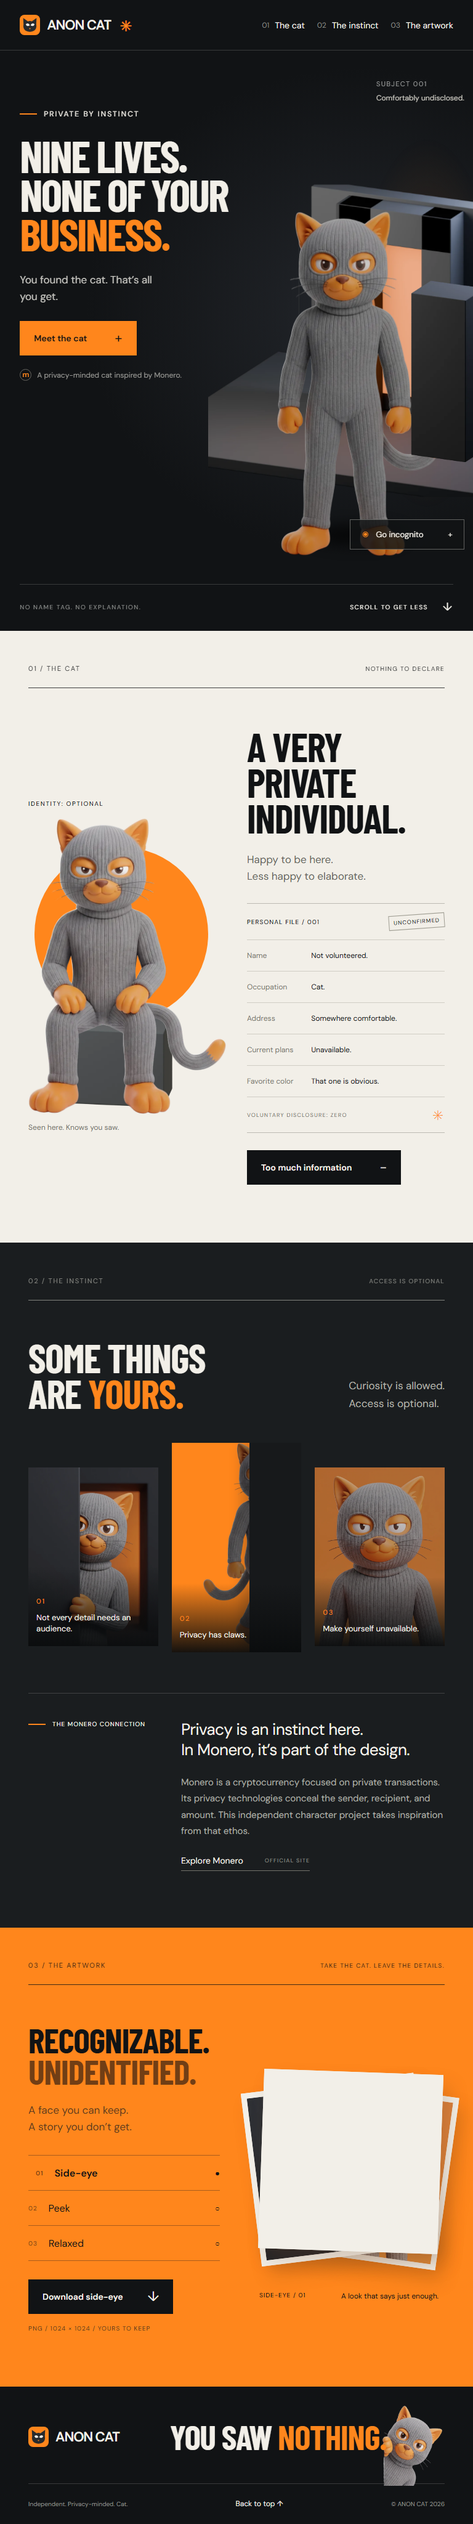
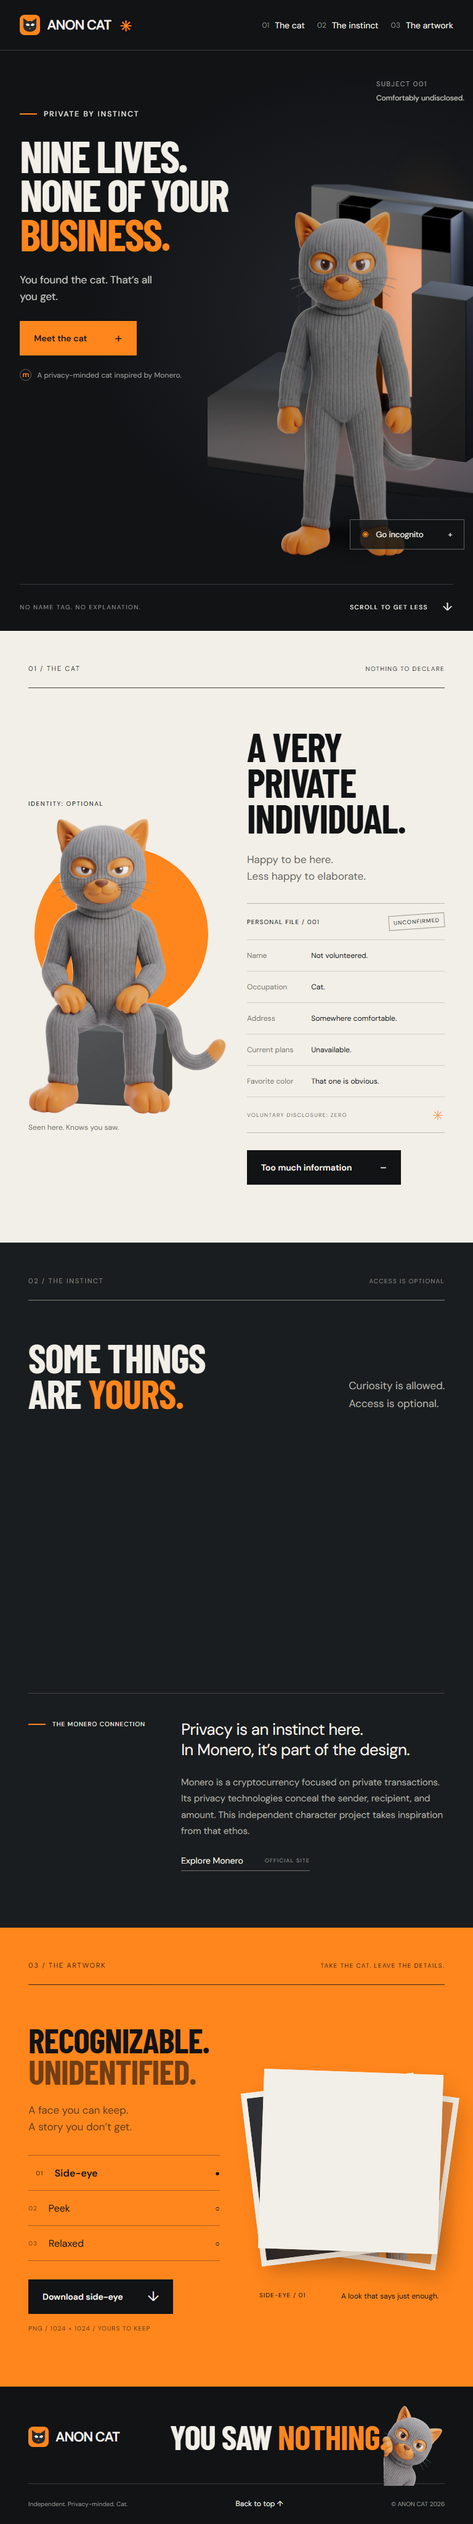
Update Site source

Changed region(s): [[0.6562, 0.5624, 0.9375, 0.6561], [0.3438, 0.5624, 0.5312, 0.6561], [0.125, 0.5624, 0.3125, 0.6561]]

diff --git a/src/components/interactions/PrivacyStory.tsx b/src/components/interactions/PrivacyStory.tsx
@@ -1,0 +1,77 @@
+'use client';
+import {useEffect,useRef,type ReactNode} from 'react';
+import gsap from 'gsap';
+
+export default function PrivacyStory({children}:{children:ReactNode}){
+  const root=useRef<HTMLDivElement>(null);
+  useEffect(()=>{
+    const el=root.current;
+    if(!el)return;
+    let disposed=false,started=false;
+    let initialArtwork=location.hash==='#artwork';
+    const cancelInitialAnchor=()=>{initialArtwork=false;};
+    window.addEventListener('wheel',cancelInitialAnchor,{passive:true});
+    window.addEventListener('touchstart',cancelInitialAnchor,{passive:true});
+    let context:gsap.Context|null=null;
+    let media:gsap.MatchMedia|null=null;
+    let refresh=()=>{};
+    const initialize=async()=>{
+      if(started)return;started=true;
+      el.querySelectorAll<HTMLImageElement>('img').forEach(img=>{img.loading='eager';});
+      // Load scroll choreography near this section, outside the hero's first requests.
+      const {ScrollTrigger}=await import('gsap/ScrollTrigger');
+      if(disposed)return;
+      const following=document.querySelector('#artwork');
+      const alignInitialAnchor=()=>{if(!disposed&&initialArtwork&&location.hash==='#artwork')following?.scrollIntoView({block:'start',behavior:'instant'});};
+      const preserveFollowing=el.getBoundingClientRect().bottom<0&&following;
+      const followingTop=preserveFollowing?following.getBoundingClientRect().top:0;
+      gsap.registerPlugin(ScrollTrigger);
+      context=gsap.context(()=>{
+        media=gsap.matchMedia();
+        media.add({desktop:'(min-width:1001px)',compact:'(max-width:1000px)'},mm=>{
+          if(mm.conditions?.desktop){
+            el.classList.add('is-cinematic');
+            const story=gsap.timeline({scrollTrigger:{id:'privacy-story',trigger:el,start:'top 6%',end:()=>`+=${Math.round(innerHeight*1.75)}`,pin:true,scrub:true,anticipatePin:1,invalidateOnRefresh:true,onUpdate:self=>{
+              el.dataset.storyProgress=self.progress.toFixed(3);
+              const chapter=self.progress<.35?'01':self.progress<.7?'02':'03';
+              el.dataset.storyChapter=chapter;
+              const label=el.querySelector('.story-current');if(label)label.textContent=chapter;
+            }}});
+            gsap.set('.silhouette-frame,.relaxed-frame',{clipPath:'inset(0 0 0 100%)'});
+            gsap.set('.privacy-shutters span',{x:0,xPercent:330});
+            story.from('.ethos-heading h2',{y:100,rotation:-4,scale:.86,duration:1,ease:'power3.out'},0)
+              .from('.panel-frame img',{scale:1.25,xPercent:8,duration:2,ease:'none'},0)
+              .to('.privacy-shutters span',{x:0,xPercent:-330,duration:.9,stagger:.07,ease:'power3.inOut'},1.2)
+              .to('.panel-frame',{clipPath:'inset(0 100% 0 0)',duration:.9,ease:'power3.inOut'},1.25)
+              .to('.silhouette-frame',{clipPath:'inset(0 0 0 0%)',duration:.9,ease:'power3.inOut'},1.25)
+              .from('.silhouette-frame img',{xPercent:-32,scale:1.15,duration:1.9,ease:'none'},1.3)
+              .to('.silhouette-occluder',{xPercent:50,duration:1.3,ease:'power2.inOut'},1.7)
+              .fromTo('.privacy-shutters span',{x:0,xPercent:330},{x:0,xPercent:-330,duration:.9,stagger:.07,ease:'power3.inOut',immediateRender:false},3.4)
+              .to('.silhouette-frame',{clipPath:'inset(0 100% 0 0)',duration:.9,ease:'power3.inOut'},3.45)
+              .to('.relaxed-frame',{clipPath:'inset(0 0 0 0%)',duration:.9,ease:'power3.inOut'},3.45)
+              .from('.relaxed-frame img',{scale:1.25,duration:2,ease:'none'},3.5)
+              .to('.ethos-heading h2 em',{scale:1.15,x:12,duration:5.5,ease:'none',transformOrigin:'0% 50%'},0)
+              .fromTo('.story-progress-track i',{scaleX:0},{scaleX:1,duration:5.5,ease:'none'},0);
+          }else{
+            gsap.utils.toArray<HTMLElement>('.ethos-frame').forEach((item,index)=>{
+              gsap.from(item,{clipPath:index%2?'inset(0 0 0 100%)':'inset(0 100% 0 0)',scale:.92,ease:'power3.out',scrollTrigger:{trigger:item,start:'top 93%',end:'top 38%',scrub:true}});
+              gsap.from(item.querySelector('img'),{scale:1.2,xPercent:index===1?-22:0,ease:'none',scrollTrigger:{trigger:item,start:'top bottom',end:'bottom top',scrub:true}});
+            });
+          }
+          return()=>{el.classList.remove('is-cinematic');delete el.dataset.storyProgress;delete el.dataset.storyChapter;};
+        });
+      },el);
+      refresh=()=>{if(!disposed)ScrollTrigger.refresh();};
+      refresh();
+      if(preserveFollowing){const change=following.getBoundingClientRect().top-followingTop;if(Math.abs(change)>1)window.scrollBy({top:change,behavior:'instant'});}
+      alignInitialAnchor();
+      document.fonts.ready.then(()=>{refresh();requestAnimationFrame(()=>{alignInitialAnchor();initialArtwork=false;});});
+      window.addEventListener('load',refresh);
+      el.dataset.storyReady='true';
+    };
+    const observer=new IntersectionObserver(entries=>{if(entries.some(entry=>entry.isIntersecting)){observer.disconnect();void initialize().catch(()=>{media?.revert();context?.revert();el.classList.remove('is-cinematic');el.dataset.storyReady='fallback';});}},{rootMargin:'800px'});
+    observer.observe(el);
+    return()=>{disposed=true;observer.disconnect();window.removeEventListener('load',refresh);window.removeEventListener('wheel',cancelInitialAnchor);window.removeEventListener('touchstart',cancelInitialAnchor);media?.revert();context?.revert();el.classList.remove('is-cinematic');};
+  },[]);
+  return <div className="ethos-cinema" ref={root}>{children}</div>;
+}

diff --git a/tests/privacy-story.spec.ts b/tests/privacy-story.spec.ts
@@ -1,0 +1,63 @@
+import {test,expect,type Page} from '@playwright/test';
+
+async function openStory(page:Page){
+  await page.locator('.ethos-cinema').scrollIntoViewIfNeeded();
+  await expect(page.locator('.ethos-cinema')).toHaveAttribute('data-story-ready','true');
+  await expect(page.locator('.ethos-cinema')).toHaveClass(/is-cinematic/);
+  await page.evaluate(()=>document.fonts.ready);
+  await expect.poll(()=>page.locator('.ethos-cinema img').evaluateAll(nodes=>nodes.every(img=>(img as HTMLImageElement).complete&&(img as HTMLImageElement).naturalWidth>0))).toBe(true);
+  return page.locator('.pin-spacer').evaluate(el=>({start:el.getBoundingClientRect().top+scrollY-innerHeight*.06,span:Math.round(innerHeight*1.75)}));
+}
+
+async function seek(page:Page,bounds:{start:number;span:number},progress:number){
+  await page.evaluate(({start,span,progress})=>window.scrollTo({top:start+span*progress,behavior:'instant'}),{...bounds,progress});
+  await expect.poll(async()=>Math.abs(Number(await page.locator('.ethos-cinema').getAttribute('data-story-progress'))-progress)).toBeLessThan(.01);
+}
+
+test('desktop story restores three full scenes, shutters, progress and reverse scrolling',async({page})=>{
+  await page.setViewportSize({width:1440,height:900});await page.goto('/');
+  const bounds=await openStory(page);
+  for(const [progress,chapter,selector]of [[.08,'01','.panel-frame'],[.52,'02','.silhouette-frame'],[.94,'03','.relaxed-frame']]as const){
+    await seek(page,bounds,progress);
+    await expect(page.locator('.story-current')).toHaveText(chapter);
+    expect(await page.locator(selector).evaluate(el=>getComputedStyle(el).clipPath)).not.toMatch(/100%/);
+    const position=await page.locator('.ethos-cinema').evaluate(el=>el.getBoundingClientRect().top);
+    expect(Math.abs(position-54)).toBeLessThan(2);
+    await page.screenshot({path:`docs/screenshots/restored-story-${chapter}.png`});
+  }
+  await seek(page,bounds,.31);
+  expect(await page.locator('.privacy-shutters span').evaluateAll(nodes=>nodes.some(el=>{const box=el.getBoundingClientRect();const stage=el.parentElement!.getBoundingClientRect();return box.left<stage.right&&box.right>stage.left;}))).toBe(true);
+  await seek(page,bounds,.08);
+  await expect(page.locator('.story-current')).toHaveText('01');
+  expect(await page.locator('.silhouette-frame').evaluate(el=>getComputedStyle(el).clipPath)).toMatch(/100%/);
+  await page.getByRole('link',{name:'03 The artwork',exact:true}).click();
+  await expect(page.getByRole('button',{name:'02 Peek',exact:true})).toBeInViewport();
+});
+
+test('responsive story removes desktop pinning and restores it without duplicates',async({page})=>{
+  await page.setViewportSize({width:1440,height:900});await page.goto('/');await openStory(page);
+  await page.setViewportSize({width:390,height:844});
+  await expect(page.locator('.pin-spacer')).toHaveCount(0);
+  await expect(page.locator('.ethos-cinema')).not.toHaveClass(/is-cinematic/);
+  await page.locator('.silhouette-frame').scrollIntoViewIfNeeded();
+  await expect(page.locator('.silhouette-frame')).toBeInViewport();
+  expect(await page.evaluate(()=>document.documentElement.scrollWidth<=innerWidth)).toBe(true);
+  await page.setViewportSize({width:1440,height:900});
+  await expect(page.locator('.pin-spacer')).toHaveCount(1);
+  await expect(page.locator('.ethos-cinema')).toHaveClass(/is-cinematic/);
+});
+
+for(const height of [600,700])test(`story and its chapter progress fit a ${height}px desktop viewport`,async({page})=>{
+  await page.setViewportSize({width:1280,height});await page.goto('/');const bounds=await openStory(page);await seek(page,bounds,.52);
+  const layout=await page.locator('.story-progress').evaluate(el=>({bottom:el.getBoundingClientRect().bottom,overflow:document.documentElement.scrollWidth>innerWidth}));
+  expect(layout.bottom).toBeLessThanOrEqual(height);expect(layout.overflow).toBe(false);
+});
+
+test('direct artwork navigation stays reachable while story initializes',async({page})=>{
+  await page.setViewportSize({width:1440,height:900});await page.goto('/#artwork');
+  await expect(page.locator('.ethos-cinema')).toHaveAttribute('data-story-ready','true');
+  await expect(page.getByRole('button',{name:'02 Peek',exact:true})).toBeInViewport();
+  await page.getByRole('button',{name:'02 Peek',exact:true}).click();
+  await expect(page.locator('#artwork')).toHaveAttribute('data-selection','peek');
+  expect(await page.locator('body').innerText()).not.toContain('<img');
+});

diff --git a/src/app/motion.css b/src/app/motion.css
@@ -13,6 +13,23 @@ html[data-motion=on] .scene-front{animation:foreground-arrive .55s cubic-bezier(
 .hero-actions{display:flex;flex-direction:column;align-items:flex-start;gap:22px}
 .hero-actions .monero-caption{margin:0;max-width:340px}.monero-dot{flex-shrink:0}
 .file-section,.artwork-section{overflow:clip}.ethos-cinema{position:relative}
+.privacy-shutters,.story-progress{display:none}
+.is-cinematic.ethos-cinema{height:84svh;min-height:min(600px,calc(100svh - 115px));max-height:940px;isolation:isolate;overflow:hidden}
+.is-cinematic .ethos-heading{position:absolute;left:0;top:17%;width:43%;height:70%;display:flex;flex-direction:column;align-items:flex-start;justify-content:space-between;padding:0;z-index:3;pointer-events:none}
+.is-cinematic .ethos-heading h2{font-size:clamp(62px,7vw,130px);max-width:100%;line-height:.91}.is-cinematic .ethos-heading h2 em{display:inline-block}
+.is-cinematic .ethos-heading>p{font-size:16px;line-height:1.7;padding-bottom:10px;max-width:220px}
+.is-cinematic .ethos-sequence{position:absolute;right:0;top:12%;width:53%;height:76%;display:block;overflow:hidden}
+.is-cinematic .ethos-frame{position:absolute;inset:0;width:100%;height:100%;margin:0}
+.is-cinematic .panel-frame{z-index:1}.is-cinematic .silhouette-frame{z-index:2}.is-cinematic .relaxed-frame{z-index:3}
+.is-cinematic .ethos-frame img{object-fit:cover;object-position:center}
+.is-cinematic .silhouette-frame img{object-fit:contain;width:100%;max-width:none;object-position:50% 100%;filter:brightness(.8)}
+.is-cinematic .silhouette-occluder{left:66%;box-shadow:-25px 0 35px #17191b66}
+.is-cinematic .ethos-frame figcaption{padding:80px 32px 32px;font-size:20px;line-height:1.4}.is-cinematic .ethos-frame figcaption span{font-size:13px}
+.is-cinematic .privacy-shutters{display:block;position:absolute;right:0;top:12%;width:53%;height:76%;overflow:hidden;z-index:5;pointer-events:none}
+.privacy-shutters span{position:absolute;left:0;width:36%;height:34%;background:#282b2e;border-top:1px solid #46494b;transform:translateX(330%)}
+.privacy-shutters span:nth-child(1){top:0}.privacy-shutters span:nth-child(2){top:33%}.privacy-shutters span:nth-child(3){top:66%}
+.is-cinematic .story-progress{position:absolute;left:0;bottom:4%;display:flex;align-items:center;gap:16px;width:39%;font-size:12px;color:#92948e;letter-spacing:1px}
+.story-current{color:var(--orange);min-width:22px}.story-progress-track{height:1px;flex:1;background:#4a4c49;position:relative}.story-progress-track i{position:absolute;inset:0;background:var(--orange);transform:scaleX(0);transform-origin:left}
 .file-grid,.artwork-grid{grid-template-columns:repeat(2,minmax(0,1fr))}
 .file-art,.file-copy,.artwork-copy,.selected-portrait{min-width:0}
 .selected-portrait{transform:none;perspective:1400px}.portrait-stage{position:relative;aspect-ratio:1;perspective:1200px;isolation:isolate}

diff --git a/src/components/sections/PrivacyEthos.tsx b/src/components/sections/PrivacyEthos.tsx
@@ -1,14 +1,17 @@
 import {site} from '@/config/site';
 import DeferredImage from '@/components/DeferredImage';
+import PrivacyStory from '@/components/interactions/PrivacyStory';
 export default function PrivacyEthos(){return <section className="ethos-section" id="ethos" aria-labelledby="ethos-heading">
   <div className="section-top"><span className="eyebrow">02 / THE INSTINCT</span><span className="tiny-label">ACCESS IS OPTIONAL</span></div>
-  <div className="ethos-cinema">
+  <PrivacyStory>
   <div className="ethos-heading"><h2 className="display-title" id="ethos-heading">SOME THINGS<br/>ARE <em>YOURS.</em></h2><p>Curiosity is allowed.<br/>Access is optional.</p></div>
   <div className="ethos-sequence">
     <figure className="ethos-frame panel-frame"><DeferredImage src="/assets/portraits/peek.webp" width="1024" height="1024" alt="The cat watches from behind a dark panel."/><figcaption><span>01</span>Not every detail needs an audience.</figcaption></figure>
     <figure className="ethos-frame silhouette-frame"><DeferredImage src="/assets/character/step-cat.webp" width="800" height="1300" alt="The cat is only partly visible in a narrow opening."/><div className="silhouette-occluder" aria-hidden="true"/><figcaption><span>02</span>Privacy has claws.</figcaption></figure>
     <figure className="ethos-frame relaxed-frame"><DeferredImage src="/assets/portraits/relaxed.webp" width="1024" height="1024" alt="The disguised cat relaxes in its own warm, quiet space."/><figcaption><span>03</span>Make yourself unavailable.</figcaption></figure>
   </div>
-  </div>
+  <div className="privacy-shutters" aria-hidden="true"><span/><span/><span/></div>
+  <div className="story-progress" aria-hidden="true"><span className="story-current">01</span><span className="story-progress-track"><i/></span><span>03</span></div>
+  </PrivacyStory>
   <div className="monero-editorial"><p className="eyebrow"><span className="orange-rule"/> THE MONERO CONNECTION</p><div><p>Privacy is an instinct here.<br/>In Monero, it’s part of the design.</p><p className="monero-explanation">Monero is a cryptocurrency focused on private transactions. Its privacy technologies conceal the sender, recipient, and amount. This independent character project takes inspiration from that ethos.</p><a className="text-link" href={site.moneroUrl} target="_blank" rel="noopener noreferrer">Explore Monero <span className="external-label">OFFICIAL SITE</span></a></div></div>
 </section>;}

diff --git a/src/components/interactions/PageMotion.tsx b/src/components/interactions/PageMotion.tsx
@@ -21,7 +21,7 @@ export default function PageMotion(){
       const current=++generation;
       observer?.disconnect();disposePointer();context?.revert();frozen=false;
       context=gsap.context(()=>{
-        // Native document flow: no pinned sections, scrub delays or moving controls.
+        // Other sections stay in native flow; PrivacyStory owns the ethos stage.
         const visible=new WeakSet<Element>();
         observer=new IntersectionObserver(entries=>{
           entries.forEach(entry=>{
@@ -37,9 +37,6 @@ export default function PageMotion(){
               if(el.matches('.file-art')){
                 gsap.fromTo(el,{y:60,rotation:-3,scale:.94},{y:0,rotation:0,scale:1,duration:.65,ease:'power3.out',overwrite:'auto'});
                 gsap.fromTo('.file-orange-disc',{scale:.75},{scale:1,duration:.65,ease:'power3.out',overwrite:'auto'});
-              }else if(el.matches('.ethos-frame')){
-                gsap.fromTo(el,{y:48},{y:0,duration:.6,ease:'power3.out',overwrite:'auto'});
-                gsap.fromTo(el.querySelector('img'),{scale:1.14},{scale:1,duration:.75,ease:'power3.out',overwrite:'auto'});
               }else{
                 gsap.fromTo(el,{y:32},{y:0,duration:.5,ease:'power3.out',overwrite:'auto'});
               }
@@ -47,7 +44,7 @@ export default function PageMotion(){
             });
           });
         },{threshold:.08,rootMargin:'0px 0px -25px 0px'});
-        document.querySelectorAll('.file-art,.file-copy h2,.ethos-frame,.artwork-copy .display-title,.selected-portrait,.footer-top>p,.footer-cat').forEach(el=>observer?.observe(el));
+        document.querySelectorAll('.file-art,.file-copy h2,.artwork-copy .display-title,.selected-portrait,.footer-top>p,.footer-cat').forEach(el=>observer?.observe(el));
         const pointer=document.querySelector<HTMLElement>('.scene-pointer');
         if(pointer&&matchMedia('(hover:hover) and (pointer:fine)').matches){
           const rx=gsap.quickTo(pointer,'rotationY',{duration:.18,ease:'power2.out'});

diff --git a/tests/movement.spec.ts b/tests/movement.spec.ts
@@ -20,13 +20,17 @@ test('file artwork waits for real images and animates again on re-entry',async({
   await expect.poll(()=>art.evaluate(el=>new DOMMatrixReadOnly(getComputedStyle(el).transform).m42),{intervals:[20]}).toBeGreaterThan(2);
 });
 
-test('all privacy scenes visibly move when entering the viewport',async({page})=>{
+test('compact privacy scenes reveal with scroll without desktop pinning',async({page})=>{
+  await page.setViewportSize({width:390,height:844});
   await page.goto('/');
   for(const selector of ['.panel-frame','.silhouette-frame','.relaxed-frame']){
-    await page.evaluate(()=>window.scrollTo({top:0,behavior:'instant'}));await page.waitForTimeout(80);
     const frame=page.locator(selector);await frame.scrollIntoViewIfNeeded();
-    await expect.poll(()=>frame.evaluate(el=>new DOMMatrixReadOnly(getComputedStyle(el).transform).m42),{intervals:[20]}).toBeGreaterThan(2);
+    await expect(page.locator('.ethos-cinema')).toHaveAttribute('data-story-ready','true');
+    await expect(page.locator('.pin-spacer')).toHaveCount(0);
     await expect.poll(()=>frame.locator('img').evaluate(el=>new DOMMatrixReadOnly(getComputedStyle(el).transform).a),{intervals:[20]}).toBeGreaterThan(1.01);
+    const before=await frame.locator('img').evaluate(el=>getComputedStyle(el).transform);
+    await page.evaluate(()=>window.scrollBy({top:120,behavior:'instant'}));
+    await expect.poll(()=>frame.locator('img').evaluate(el=>getComputedStyle(el).transform)).not.toBe(before);
   }
 });
 

diff --git a/tests/cinema.spec.ts b/tests/cinema.spec.ts
@@ -77,12 +77,11 @@ for(const width of [360,390,768,1440,1920])test(`first-screen actions never over
   expect(gap).toBeGreaterThanOrEqual(15);
 });
 
-test('native scrolling reaches all three privacy scenes with no pin or delayed control',async({page})=>{
+test('restored cinema keeps navigation to artwork immediate',async({page})=>{
   await page.goto('/');
-  for(const scene of ['.panel-frame','.silhouette-frame','.relaxed-frame']){
-    await page.locator(scene).scrollIntoViewIfNeeded();await expect(page.locator(scene)).toBeVisible();
-  }
-  await expect(page.locator('.pin-spacer')).toHaveCount(0);
+  await page.locator('.ethos-cinema').scrollIntoViewIfNeeded();
+  await expect(page.locator('.ethos-cinema')).toHaveClass(/is-cinematic/);
+  await expect(page.locator('.pin-spacer')).toHaveCount(1);
   await page.getByRole('link',{name:'03 The artwork'}).click();await expect(page).toHaveURL(/#artwork$/);
   await expect(page.getByRole('button',{name:'02 Peek',exact:true})).toBeVisible();
 });

diff --git a/docs/test-results.md b/docs/test-results.md
@@ -1,12 +1,14 @@
 # Production verification — 2026-10-01
 
-The static export after removing the motion switch passed `npm run build` (including strict TypeScript), lint, and all 30 Playwright Chromium checks.
+The static export after restoring the privacy cinema passed `npm run build` (including strict TypeScript), lint, and all 35 Playwright Chromium checks.
 
 The first-page recheck adds visible-pose assertions after manual return, scroll re-entry, and a delayed poster failure after hydration. It also verifies animation stays enabled without a switch, including with an obsolete saved off value or reduced-motion preference, survives reload, and emits no raw noscript image markup with JavaScript enabled. The previous autoplay cancellation and fallback failure are fixed; repeat rest is now 2.5 seconds.
 
 The subsequent whole-page repair removes the noscript image branch and custom deferred-source visibility path entirely. Native image sources work without JavaScript. New movement tests verify file artwork waits for delayed image loads, replays on re-entry, all three privacy scenes translate and scale visibly, and camera tilt, CSS redaction and 3D portrait selection actually move after reload. `file-native-desktop.png` shows the clean seated-cat section.
 
-Coverage includes automatic first-screen character performance and immediate interruption; sub-second manual hide/return; CTA/caption separation throughout entrance and hover at 360, 390, 768, 1440 and 1920px; mobile scene/copy separation; no horizontal overflow; native navigation without pinning; ignored legacy off settings and absence of the switch; 15 rapid hero clicks and 15 rapid portrait changes; accessible fictional redaction; all three actual 1024×1024 PNG downloads; keyboard skip/navigation; WebP failure recovery before and after hydration; poster-first request ordering; and ordinary artwork fallbacks with JavaScript disabled.
+The restored desktop privacy story is checked at all three scene positions, during a shutter wipe, and in reverse. Tests cover pin placement, chapter labels, scene masks, viewport resize without duplicate spacers, compact scroll motion, 600/700px desktop heights and direct artwork navigation after late story initialization. The motion switch remains absent; hero/loading fixes are retained. `restored-story-01.png`, `restored-story-02.png` and `restored-story-03.png` show the large restored scenes.
+
+Coverage also includes automatic first-screen performance and interruption; sub-second manual hide/return; CTA/caption separation at five widths; mobile scene/copy separation; no horizontal overflow; navigation past the privacy pin; ignored legacy off settings and absence of the switch; rapid hero clicks and portrait changes; fictional redaction; three actual PNG downloads; keyboard navigation; WebP failure recovery; poster-first requests; and artwork without JavaScript.
 
 The production request audit found no automatic third-party requests, missing assets, browser console errors or hydration errors. Public financial destinations remain unconfigured. Browser performance marks are local and have no reporting endpoint. This pass incurred no new generation charges; total generation use remains 22 of the approved 200 credits.
 
@@ -18,14 +20,14 @@ Independent inspection found no material loss in the compressed character's face
 
 ## Performance
 
-The measurements below are from the preceding whole-page repair, before switch removal, using fresh browser contexts against the Brotli-enabled local production server. Its compression cache may already be warm; browser caches are fresh. The hosting provider has its own delivery behavior. These are lab samples, not field percentiles or guarantees for physical devices.
+The measurements below use the restored version in fresh browser contexts against the Brotli-enabled local production server. Its compression cache may already be warm; browser caches are fresh. The hosting provider has its own delivery behavior. These are lab samples, not field percentiles or guarantees for physical devices.
 
 | Condition | LCP | CLS | Controls ready | Automatic character starts |
 | --- | ---: | ---: | ---: | ---: |
-| 1440×900, localhost, unthrottled | 148 ms | 0.022404 | 172 ms | 408 ms |
-| 390×844, 4× CPU, 150ms latency, 1.6 Mbps download | 848 ms | 0.030525 | 2,638 ms | 3,777 ms |
+| 1440×900, localhost, unthrottled | 128 ms | 0 | 115 ms | 363 ms |
+| 390×844, 4× CPU, 150ms latency, 1.6 Mbps download | 740 ms | 0.030525 | 2,434 ms | 3,508 ms |
 
-Architectural CSS motion begins at 148ms and 845ms respectively. Manual action duration after input is 720ms for hide/peek and 560ms for return; portrait motion takes 380ms. First-screen text and controls do not translate. The old 175vh pinned story was removed.
+Manual action duration after input remains 720ms for hide/peek and 560ms for return; portrait motion takes 380ms. First-screen text and controls do not translate. The 175vh privacy story is restored only in its own section; lazy choreography loading keeps it outside the hero's critical requests.
 
 Both LCP/CLS samples meet the original 2.5-second/0.1 targets. Controls and full character performance are reported separately because text LCP alone does not measure interaction readiness. Raw timings, local marks and transfer sizes are in `performance-results.json`. `performance-uncompressed.json` retains an earlier intermediate sample from the uncompressed preview and is not a measurement of the final source.
 

diff --git a/docs/motion-spec.md b/docs/motion-spec.md
@@ -18,13 +18,16 @@ The decorative performance and manual state are separate. A manual action cancel
 
 ## Rest of the document
 
-Native scrolling has no pin spacers, scrub inertia or extra story scroll distance. IntersectionObserver starts 500–750ms reveals as artwork/headings enter the viewport. Images decode before their entrance, and reveals replay on re-entry. The file scene rises 60px with a small rotation and disc expansion; privacy scenes rise 48px while their images settle from 1.14 scale. Content remains visible if scripts fail. A passive, frame-coalesced scroll listener updates the header's document progress line. Portrait selection updates its accessible label and real local PNG download immediately; a 380ms print throw follows, cancelling earlier contexts on rapid choices. Redaction bars finish in at most 260ms, including stagger.
+The original privacy cinema is restored on desktop at 1001px and above. Its 84svh stage pins at 6% of the viewport for 175vh of scroll travel, with direct progress and no scrub inertia. Peek transitions through three charcoal shutters into Walking on orange, then another wipe reveals Relaxed. The title enlarges and chapter/progress indicators advance. The stage fits short desktop viewports. Compact screens use three stacked scenes with reversible scroll masks and image depth, without pinning.
+
+ScrollTrigger is imported only within 800px of this section; its three images are then warmed to avoid empty masked scenes. Setup refreshes after font readiness. Late pin creation preserves the following viewport, and direct artwork hashes are realigned unless the visitor has started scrolling. MatchMedia removes pinning and desktop transforms on resize. Other sections keep brief repeatable entrances and native flow: the file rises 60px with a small rotation/disc expansion. Portrait selection and its PNG download update immediately, followed by a 380ms print throw. Redaction finishes within 260ms. Ordinary image markup and a three-card fallback remain available without scripts.
 
 ## Ownership and loading
 
 - CSS owns architectural arrival on `scene-camera`/foreground; these never share transforms with pointer or character motion.
 - The hero GSAP context owns poses, glance, breathing, travel and the short scene action.
 - Page GSAP owns pointer tilt on `scene-pointer` and repeatable below-fold reveals.
+- PrivacyStory owns privacy frames, images, occluder, shutters, heading and chapter track; PageMotion excludes those targets.
 - Artwork GSAP owns print transforms inside its stage.
 
 The high-priority poster is 120,226 bytes on desktop or 73,296 bytes on mobile. Hidden poses load after its decode. Below-fold artwork uses ordinary images with native lazy loading, low fetch priority and asynchronous decode; it works without hydration. No noscript image text or custom deferred-source visibility rule exists. Original transparent PNGs remain available for source and error recovery. Browser-only performance marks measure readiness; there is no reporting endpoint.

diff --git a/README.md b/README.md
@@ -28,7 +28,7 @@ npm run test:e2e
 
 All content and controls are HTML. Animations are enabled throughout, with no motion switch or stored off preference. No autoplay audio, scroll hijacking, fake loader, wallet request, tracking, or runtime third-party font/media request.
 
-The current motion pass focuses on the first screen: a 600ms architectural arrival starts before hydration, then the cat briefly steps behind the wall, peeks, and returns automatically. Pointer tilt responds over 180ms. Text and the CTA remain fixed; the button and Monero caption form an explicit action stack. Mobile artwork follows the copy in normal document flow. Manual hide/peek finishes in 720ms and return in 560ms. Native scrolling has no pinned story or scrub delay; below-fold reveals take about 400ms, and portrait changes settle in 380ms. The sticky header keeps navigation available; animations remain enabled. `src/app/motion.css` owns CSS arrival; `PageMotion.tsx` owns pointer/reveals while HeroScene and ArtworkPack own inner actions.
+The hero keeps its 600ms architectural arrival, automatic hide/peek/return, 180ms pointer response and fixed text/CTA. Manual hide/peek finishes in 720ms and return in 560ms. The original privacy cinema is restored on desktop: a large image stage beside the heading moves through Peek, Walking and Relaxed scenes with shutter wipes and chapter progress over 175vh of scrolling. Scroll progress responds immediately without scrub lag. Compact screens retain three stacked scenes with scroll-driven mask reveals. Portrait changes settle in 380ms. The sticky header keeps navigation available; animations remain enabled. `PrivacyStory.tsx` owns only the privacy stage and loads its ScrollTrigger code near that section; PageMotion and other components retain their own transforms.
 
 Automatic character motion repeats with a 2.5-second rest, resumes after Come back, and replays on returning to the hero or browser tab. PNG poster recovery can animate. The motion switch and saved preference were removed at the user’s request; animation stays enabled after reload.
 
